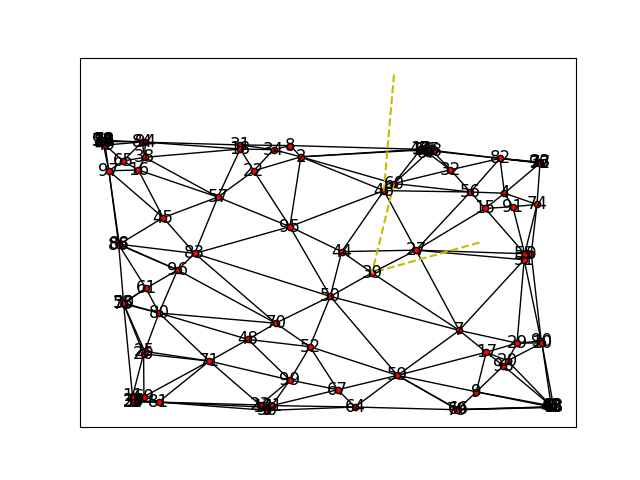
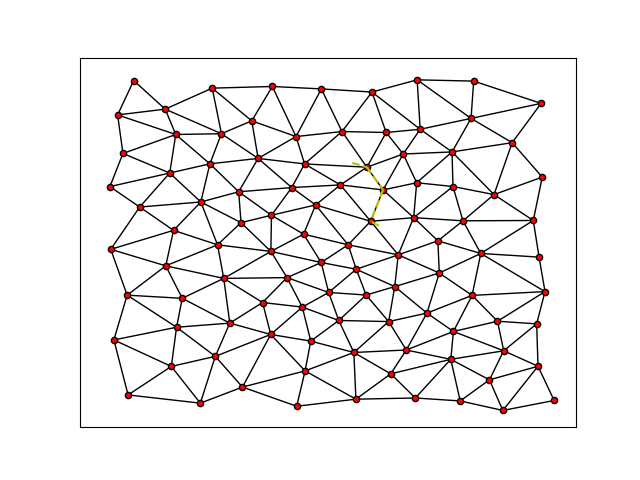
shrinking and display fixed

Changed region(s): [[0.125, 0.1562, 0.875, 0.875]]

diff --git a/roadmaps/var_odrm_torch/var_odrm_torch.py b/roadmaps/var_odrm_torch/var_odrm_torch.py
@@ -4,7 +4,10 @@ import matplotlib.pyplot as plt
 import networkx as nx
 import numpy as np
 import torch
+from networkx.exception import NetworkXNoPath, NodeNotFound
+from pyflann import FLANN
 from scipy.spatial import Delaunay
+from tools import ProgressBar
 
 dtype = torch.float
 device = torch.device("cpu")
@@ -20,96 +23,150 @@ def make_graph(pos):
     N = pos.shape[0]
     g = nx.Graph()
     pos_np = pos.detach().numpy()
-
+    # to discourage too many edges parallel to walls,
+    # these will be ignored after Delaunay because they are not added by any
+    # edge below.
+    n_fn = 5
+    fake_nodes = np.array(
+        [(0, 1/n_fn*i) for i in range(n_fn+1)] +
+        [(1, 1/n_fn*i) for i in range(n_fn+1)] +
+        [(1/n_fn*i, 0) for i in range(n_fn+1)] +
+        [(1/n_fn*i, 1) for i in range(n_fn+1)]
+    )
+    pos_np = np.append(pos_np, fake_nodes, axis=0)
     tri = Delaunay(pos_np)
     (indptr, indices) = tri.vertex_neighbor_vertices
     for i in range(N):
         neighbors = indices[indptr[i]:indptr[i+1]]
         for n in neighbors:
+            if n >= N:
+                continue  # ignoring fake nodes form above
             g.add_edge(i, n,
                        distance=np.linalg.norm(pos_np[i] - pos_np[n]))
-
     return g
 
 
 def draw_graph(g, pos, paths=[]):
-    plt.figure()
+    fig = plt.figure()
+    ax = fig.add_subplot(111)
     N = pos.shape[0]
     pos_np = pos.detach().numpy()
     options = {
+        "ax": ax,
         "node_size": 20,
         "node_color": "red",
         "edgecolors": "black",
         "linewidths": 1,
         "width": 1,
-        # "with_labels": False
+        "with_labels": False
     }
     pos_dict = {i: pos_np[i] for i in range(N)}
     nx.draw_networkx(g, pos_dict, **options)
 
+    style = 'y--'
     for p in paths:
-        for i in range(len(p)-1):
+        (start, goal, path_vs) = p
+        for i in range(len(path_vs)-1):
             j = i+1
-            plt.plot(
-                [pos_np[p[i], 0], pos_np[p[j], 0]],  # x
-                [pos_np[p[i], 1], pos_np[p[j], 1]],  # y
-                'y--')
+            ax.plot(
+                [pos_np[path_vs[i], 0], pos_np[path_vs[j], 0]],  # x
+                [pos_np[path_vs[i], 1], pos_np[path_vs[j], 1]],  # y
+                style)
+        ax.plot(
+            [start[0], pos_np[path_vs[0], 0]],  # x
+            [start[1], pos_np[path_vs[0], 1]],  # y
+            style)
+        ax.plot(
+            [goal[0], pos_np[path_vs[-1], 0]],  # x
+            [goal[1], pos_np[path_vs[-1], 1]],  # y
+            style)
+        ax.set_xlim([0., 1.])
+        ax.set_ylim([0., 1.])
 
 
-def make_paths(g, n_paths, seed=random.randint(0, 10E6)):
+def make_paths(g, pos, n_paths, seed=random.randint(0, 10E6)):
+    nn = 1
     np.random.seed(seed)
-    N = nx.number_of_nodes(g)
+    pos_np = pos.detach().numpy()
+    flann = FLANN()
+    flann.build_index(np.array(pos_np))
     paths = []
     for _ in range(n_paths):
-        start, goal = np.random.randint(0, N, (2))
-        paths.append(
-            nx.shortest_path(g, start, goal, 'distance'))
+        [start, goal] = np.random.random((2, 2))
+        result, dists = flann.nn_index(
+            np.array([start, goal], dtype=pos_np.dtype), nn)
+        start_v, goal_v = result
+        try:
+            paths.append(
+                (start, goal, nx.shortest_path(g, start_v, goal_v, 'distance')))
+        except (NetworkXNoPath, nx.NodeNotFound):
+            pass
     return paths
 
 
 def get_path_len(pos, path):
-    sections = torch.zeros(len(path)-1)
-    for i in range(len(path)-1):
+    TAIL_WEIGHT = 4
+    (start, goal, path_vs) = path
+    sections = torch.zeros(len(path_vs)+1)
+    for i in range(len(path_vs)-1):
         j = i+1
-        sections[i] = torch.linalg.vector_norm(pos[path[i]] - pos[path[j]])
+        sections[i] = torch.linalg.vector_norm(
+            pos[path_vs[i]] - pos[path_vs[j]])
+    s_tail = torch.linalg.vector_norm(
+        torch.tensor(start) - pos[path_vs[0]])
+    sections[-2] = TAIL_WEIGHT * (s_tail ** 2 + s_tail)
+    g_tail = torch.linalg.vector_norm(
+        torch.tensor(goal) - pos[path_vs[-1]])
+    sections[-1] = TAIL_WEIGHT * (g_tail ** 2 + g_tail)
     return torch.sum(sections)
 
 
 def get_paths_len(pos, paths):
     all_lens = torch.zeros(len(paths))
     for i, p in enumerate(paths):
-        all_lens[i] = get_path_len(pos, p)
+        try:
+            all_lens[i] = get_path_len(pos, p)
+        except (NetworkXNoPath, NodeNotFound):
+            pass
     return torch.sum(all_lens)
 
 
 if __name__ == "__main__":
     n = 100
-    batches = 2000
-    learning_rate = 1e-4
+    batches = 1000
+    learning_rate = 1e-3
+    stats_every = 10
 
     pos = sample_points(n)
     g = make_graph(pos)
+    test_paths = make_paths(g, pos, 20, 0)
 
     optimizer = torch.optim.Adam([pos], lr=learning_rate)
-    test_paths = make_paths(g, 20, 0)
     test_costs = []
 
     draw_graph(g, pos, [test_paths[0]])
+    plt.savefig("pre_training.png")
+    pb = ProgressBar("Training", batches)
     for i_b in range(batches):
         optimizer.zero_grad()
+        test_paths = make_paths(g, pos, 20, 0)
         test_length = get_paths_len(pos, test_paths)
-        paths = make_paths(g, 10, i_b)
-        length = get_paths_len(pos, paths)
-        backward = length.backward(create_graph=True)
+        training_paths = make_paths(g, pos, 10, i_b)
+        training_length = get_paths_len(pos, training_paths)
+        backward = training_length.backward(create_graph=True)
         optimizer.step()
         g = make_graph(pos)
-        if i_b % 100 == 0:
+        if i_b % stats_every == stats_every-1:
             print(f"test_length: {test_length}")
-            print(f"length: {length}")
+            print(f"training_length: {training_length}")
             test_costs.append(test_length.detach().numpy())
+            pb.progress(i_b)
+    pb.end()
 
     draw_graph(g, pos, [test_paths[0]])
+    plt.savefig("post_training.png")
 
     plt.figure()
     plt.plot(test_costs)
+    plt.savefig("test_length.png")
     plt.show()
